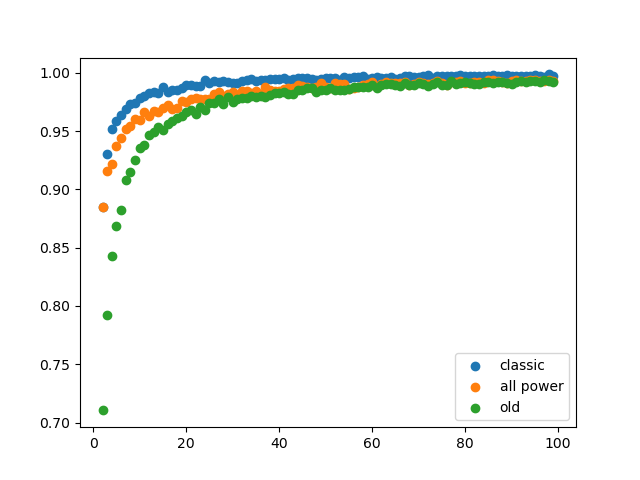
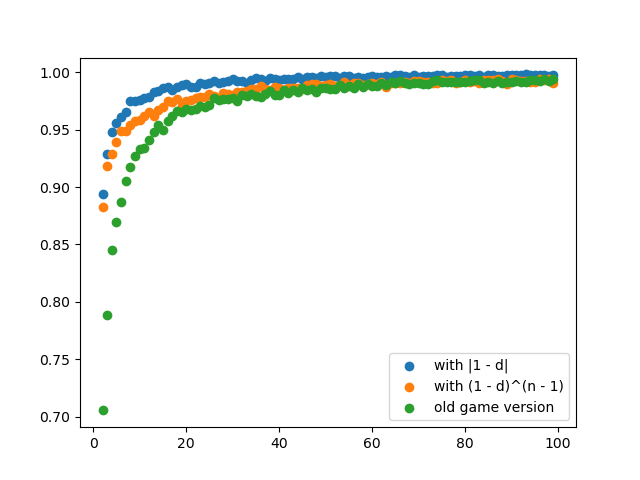
updated plot

diff --git a/simulated_white_strategy.py b/simulated_white_strategy.py
@@ -101,9 +101,9 @@ for i in ns:
     old.append(val)
 
 
-plt.scatter(ns, classic, label = 'classic')
-plt.scatter(ns, all_power, label = 'all power')
-plt.scatter(ns, old, label = 'old')
+plt.scatter(ns, classic, label = 'with |1 - d|')
+plt.scatter(ns, all_power, label = 'with (1 - d)^(n - 1)')
+plt.scatter(ns, old, label = 'old game version')
 #plt.scatter(ns, vals_black_barrier)
 #plt.scatter(ns, vals_black_standard)
 plt.legend()
